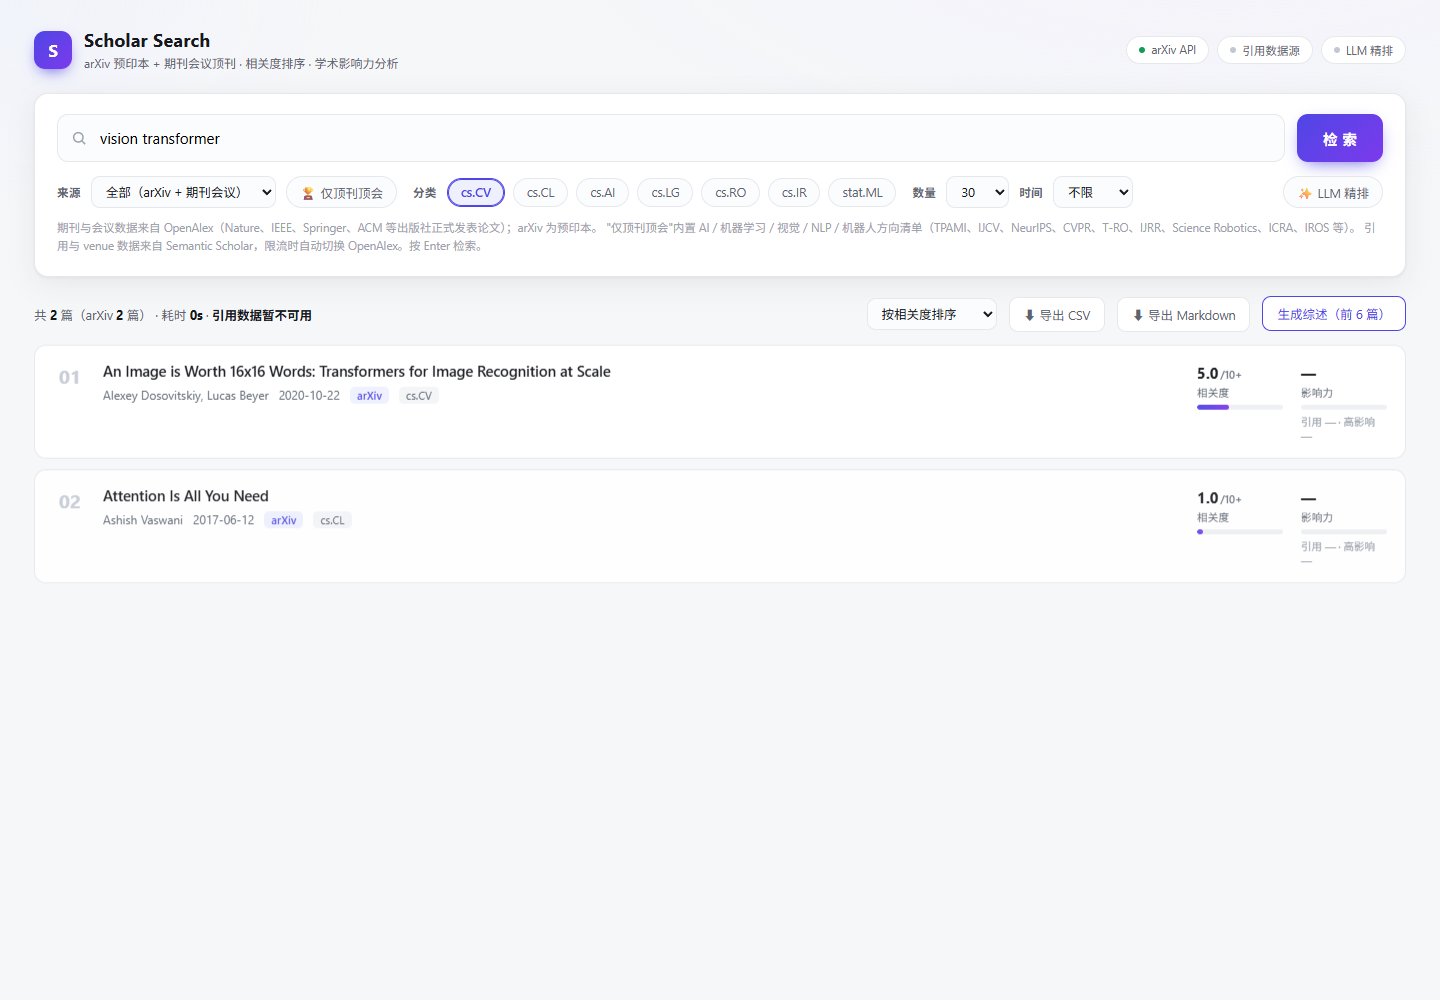
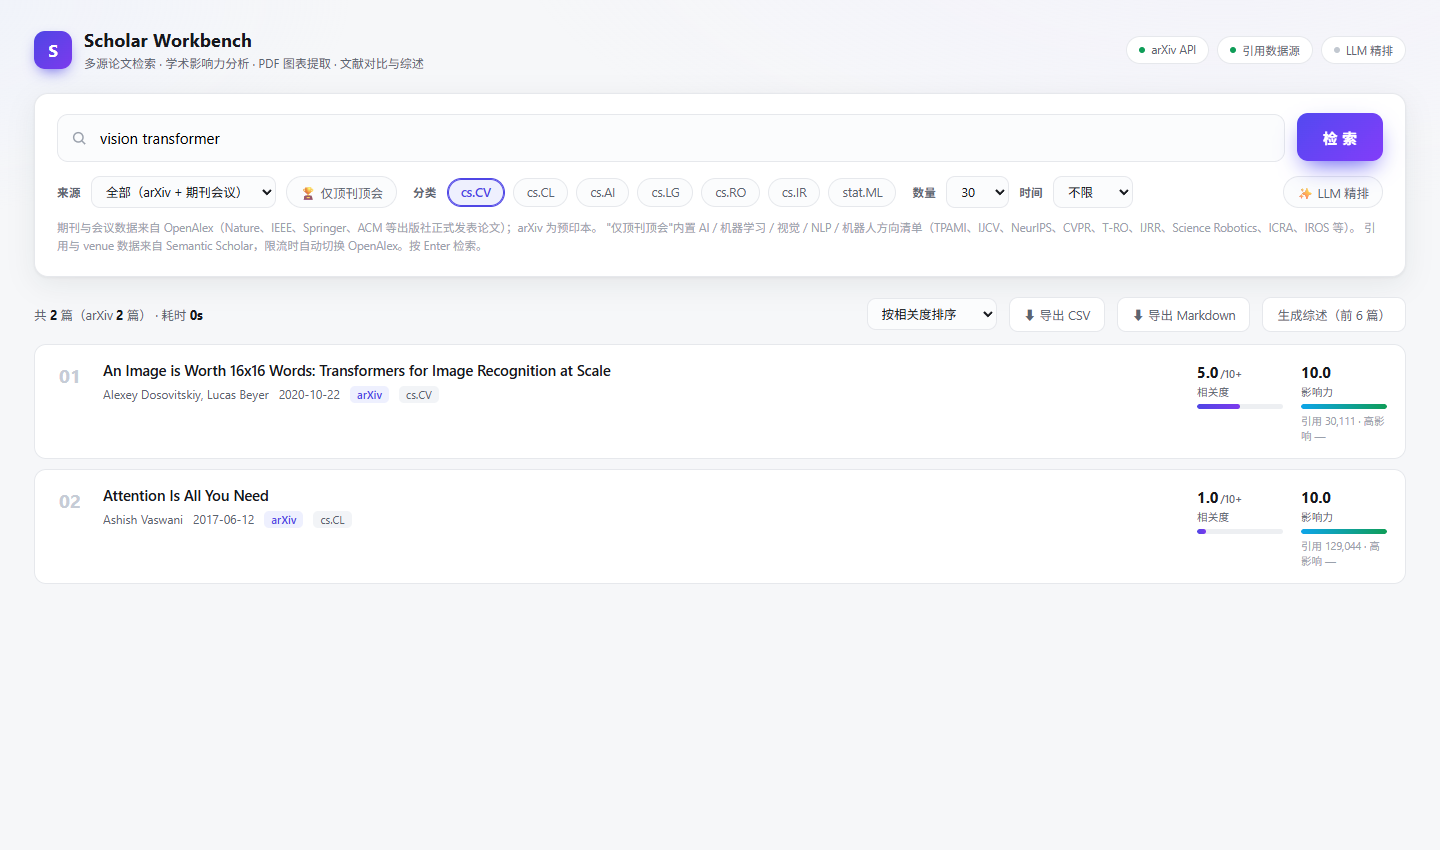
chore: rename unified research assistant to Scholar Workbench

diff --git a/src/arxiv_digest/web/index.html b/src/arxiv_digest/web/index.html
@@ -2,7 +2,7 @@
 <html lang="zh-CN">
 <head>
 <meta charset="utf-8">
-<title>Scholar Search</title>
+<title>Scholar Workbench</title>
 <style>
   :root {
     --bg: #f6f7f9; --card: #ffffff; --ink: #16181d; --ink-2: #5c6470;
@@ -235,8 +235,8 @@
     <div class="brand">
       <div class="logo">S</div>
       <div>
-        <h1>Scholar Search</h1>
-        <p>arXiv 预印本 + 期刊会议顶刊 · 相关度排序 · 学术影响力分析</p>
+        <h1>Scholar Workbench</h1>
+        <p>多源论文检索 · 学术影响力分析 · PDF 图表提取 · 文献对比与综述</p>
       </div>
     </div>
     <div class="sources">
@@ -323,7 +323,7 @@
             <input id="llm-model" placeholder="gpt-4o-mini" spellcheck="false">
           </div>
         </div>
-        <div class="note">保存到本机 ~/.arxiv-digest/llm.json，仅用于本地调用。环境变量 LLM_API_KEY 优先于此配置。配置后：检索 Top 20 相关性 0-10 精排 + 摘要中译。</div>
+        <div class="note">保存到本机 ~/.litreview/config.json，仅用于本地调用。环境变量 LLM_API_KEY 优先于此配置。配置后：检索 Top 20 相关性 0-10 精排 + 摘要中译。</div>
         <div class="btns">
           <button class="btn-primary" id="llm-save" style="padding:9px 20px;font-size:13.5px"><span class="label">保 存</span></button>
           <button class="btn-ghost" id="llm-test">测试连接</button>

diff --git a/src/litreview/cli.py b/src/litreview/cli.py
@@ -1,6 +1,6 @@
 """Command line entry point.
 
-    litreview "vision transformer" --limit 6 --out reports
+    scholar-workbench "vision transformer" --limit 6 --out reports
 """
 
 from __future__ import annotations
@@ -12,7 +12,7 @@ import sys
 
 def build_parser() -> argparse.ArgumentParser:
     parser = argparse.ArgumentParser(
-        prog="litreview",
+        prog="scholar-workbench",
         description="Research agent: search -> download -> figures -> compare -> survey",
         epilog="Commands: survey QUERY (default), search QUERY, desktop, digest [options].")
     parser.add_argument("query", help="research topic / keywords")
@@ -39,7 +39,7 @@ def main(argv: list[str] | None = None) -> int:
         from arxiv_digest.cli import main as digest_main
         return digest_main(argv[1:])
     if argv and argv[0] == "desktop":
-        argparse.ArgumentParser(prog="litreview desktop").parse_args(argv[1:])
+        argparse.ArgumentParser(prog="scholar-workbench desktop").parse_args(argv[1:])
         from arxiv_digest.desktop import main as desktop_main
         desktop_main()
         return 0

diff --git a/src/litreview/pdf.py b/src/litreview/pdf.py
@@ -29,7 +29,7 @@ def download_pdf(url: str, dest: str | Path, *, client: httpx.Client | None = No
     dest.parent.mkdir(parents=True, exist_ok=True)
     own_client = client is None
     client = client or httpx.Client(timeout=60.0, follow_redirects=True,
-                                    headers={"User-Agent": "lit-review-agent"})
+                                    headers={"User-Agent": "scholar-workbench"})
     try:
         with client.stream("GET", url) as response:
             response.raise_for_status()
@@ -79,7 +79,7 @@ def extract_content(pdf_path: str | Path, paper_id: str) -> PaperContent:
     try:
         import fitz  # pymupdf
     except ImportError as error:  # pragma: no cover
-        raise PdfError('missing dependency: pip install "lit-review-agent[pdf]"') from error
+        raise PdfError('missing dependency: pip install "scholar-workbench[pdf]"') from error
     doc = fitz.open(pdf_path)
     try:
         pages_text, figures, seen_xrefs = [], [], set()

diff --git a/src/arxiv_digest/desktop.py b/src/arxiv_digest/desktop.py
@@ -1,6 +1,6 @@
 """桌面客户端：pywebview 原生窗口 + 本地 HTML 前端（无需浏览器、无服务器）。
 
-运行：pip install arxiv-digest-agent[desktop] 后执行 arxiv-digest-desktop
+运行：pip install -e ".[desktop,pdf]" 后执行 scholar-workbench desktop
 桥接层（DesktopAPI）与窗口分离：桥接层可在无 pywebview 的环境下单测。
 
 检索来源支持 arXiv 预印本与 OpenAlex 正式期刊/会议论文（可合并去重）；
@@ -220,7 +220,7 @@ def run() -> None:
 
     html = INDEX_HTML.read_text(encoding="utf-8")
     webview.create_window(
-        "Scholar Search · 论文检索与影响力分析（arXiv + 期刊会议）",
+        "Scholar Workbench · 科研文献工作台",
         html=html,
         js_api=DesktopAPI(),
         width=1320,

diff --git a/src/arxiv_digest/llm.py b/src/arxiv_digest/llm.py
@@ -1,7 +1,8 @@
 """可选 LLM 精排层：OpenAI 兼容 chat/completions 协议，纯 urllib 实现。
 
 凭据读取顺序：环境变量（LLM_API_KEY / LLM_BASE_URL / LLM_MODEL）优先，
-其次本地配置文件 ~/.arxiv-digest/llm.json（桌面端"LLM 精排"设置弹窗写入）。
+其次本地配置文件 ~/.litreview/config.json（桌面端设置写入），
+最后兼容读取原 ~/.arxiv-digest/llm.json。
 两者都未设置时跳过 LLM；调用失败时优雅降级，只使用规则分。
 """
 

diff --git a/src/litreview/mcp_server.py b/src/litreview/mcp_server.py
@@ -34,8 +34,8 @@ def main() -> None:
     try:
         from mcp.server.fastmcp import FastMCP
     except ImportError:
-        sys.exit('missing dependency: pip install "lit-review-agent[mcp]"')
-    server = FastMCP("lit-review-agent")
+        sys.exit('missing dependency: pip install "scholar-workbench[mcp]"')
+    server = FastMCP("scholar-workbench")
     register(server, LitReviewAgent())
     server.run()
 

diff --git a/src/litreview/sources.py b/src/litreview/sources.py
@@ -16,7 +16,7 @@ from .models import Paper
 
 ARXIV_API = "https://export.arxiv.org/api/query"
 OPENALEX_API = "https://api.openalex.org/works"
-UA = "lit-review-agent/0.1 (https://github.com/XiaoMa-77/lit-review-agent)"
+UA = "scholar-workbench/0.1 (https://github.com/XiaoMa-77/scholar-workbench)"
 ATOM = "{http://www.w3.org/2005/Atom}"
 ARXIV_NS = "{http://arxiv.org/schemas/atom}"
 

diff --git a/src/arxiv_digest/fetcher.py b/src/arxiv_digest/fetcher.py
@@ -17,7 +17,7 @@ ARXIV_NS = "{http://arxiv.org/schemas/atom}"
 API_URL = "https://export.arxiv.org/api/query"
 USER_AGENT = (
     f"arxiv-digest-agent/{__version__} "
-    "(https://github.com/XiaoMa-77/lit-review-agent)"
+    "(https://github.com/XiaoMa-77/scholar-workbench)"
 )
 
 

diff --git a/src/litreview/__init__.py b/src/litreview/__init__.py
@@ -1,4 +1,4 @@
-"""lit-review-agent: search, download, figure inventory, compare, survey."""
+"""scholar-workbench: search, download, figure inventory, compare, survey."""
 
 __version__ = "0.2.0"
 

diff --git a/docs/migration.md b/docs/migration.md
@@ -1,6 +1,6 @@
 # 合并迁移记录
 
-目标仓库：lit-review-agent。原 arxiv-digest-agent 的末次导入提交为 `1563f569bcce15729926210c160f8263d8120e00`。
+目标仓库：scholar-workbench（由 lit-review-agent 重命名）。原 arxiv-digest-agent 的末次导入提交为 `1563f569bcce15729926210c160f8263d8120e00`。
 
 | 原内容 | 合并后位置 / 行为 |
 | --- | --- |
@@ -20,3 +20,7 @@
 离线模式改为读取检索快照，避免离线运行再次请求搜索 API。MCP 服务使用 SDK 1.x 的 FastMCP 工具注册方式，并验证工具注册与调用。
 
 删除原仓库的前置条件：完整功能迁移、合并测试通过、目标 main 分支验证完成、完整 Git bundle 验证可恢复。仓库级的 stars、访问统计与 Actions 运行记录不属于 Git 提交历史。
+
+## 项目命名统一
+
+仓库与安装分发名称统一为 `scholar-workbench`，桌面标题使用 **Scholar Workbench**。新增 `scholar-workbench`、`scholar-workbench-desktop` 与 `scholar-workbench-mcp` 入口；原命令、Python 模块、MCP 工具名及 `~/.litreview/` 配置和缓存路径继续兼容。

diff --git a/CHANGELOG.md b/CHANGELOG.md
@@ -1,5 +1,10 @@
 # Changelog
 
+## Unreleased
+
+- 项目统一更名为 Scholar Workbench；仓库与安装名称为 `scholar-workbench`。
+- 更新 README、仓库链接、桌面标题与命令入口，保留全部原命令与配置兼容。
+
 ## 0.2.0 — 2026-10-29
 
 - 合并 arxiv-digest-agent 的完整功能与 Git 历史：桌面检索、引用分析、顶刊筛选、规则打分、LLM 精排、简报与导出。
